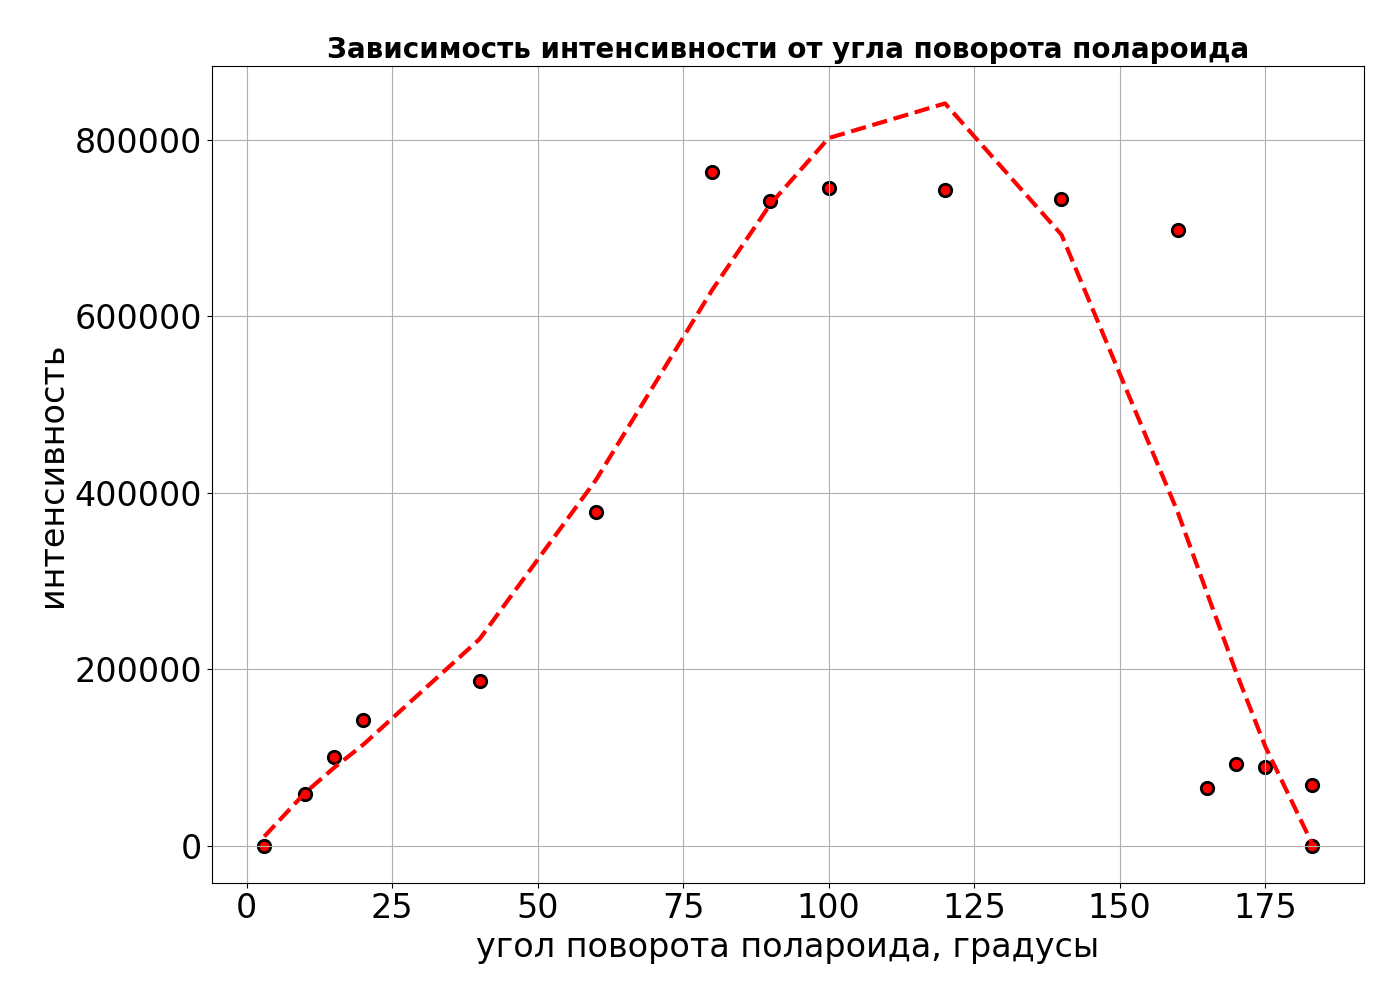
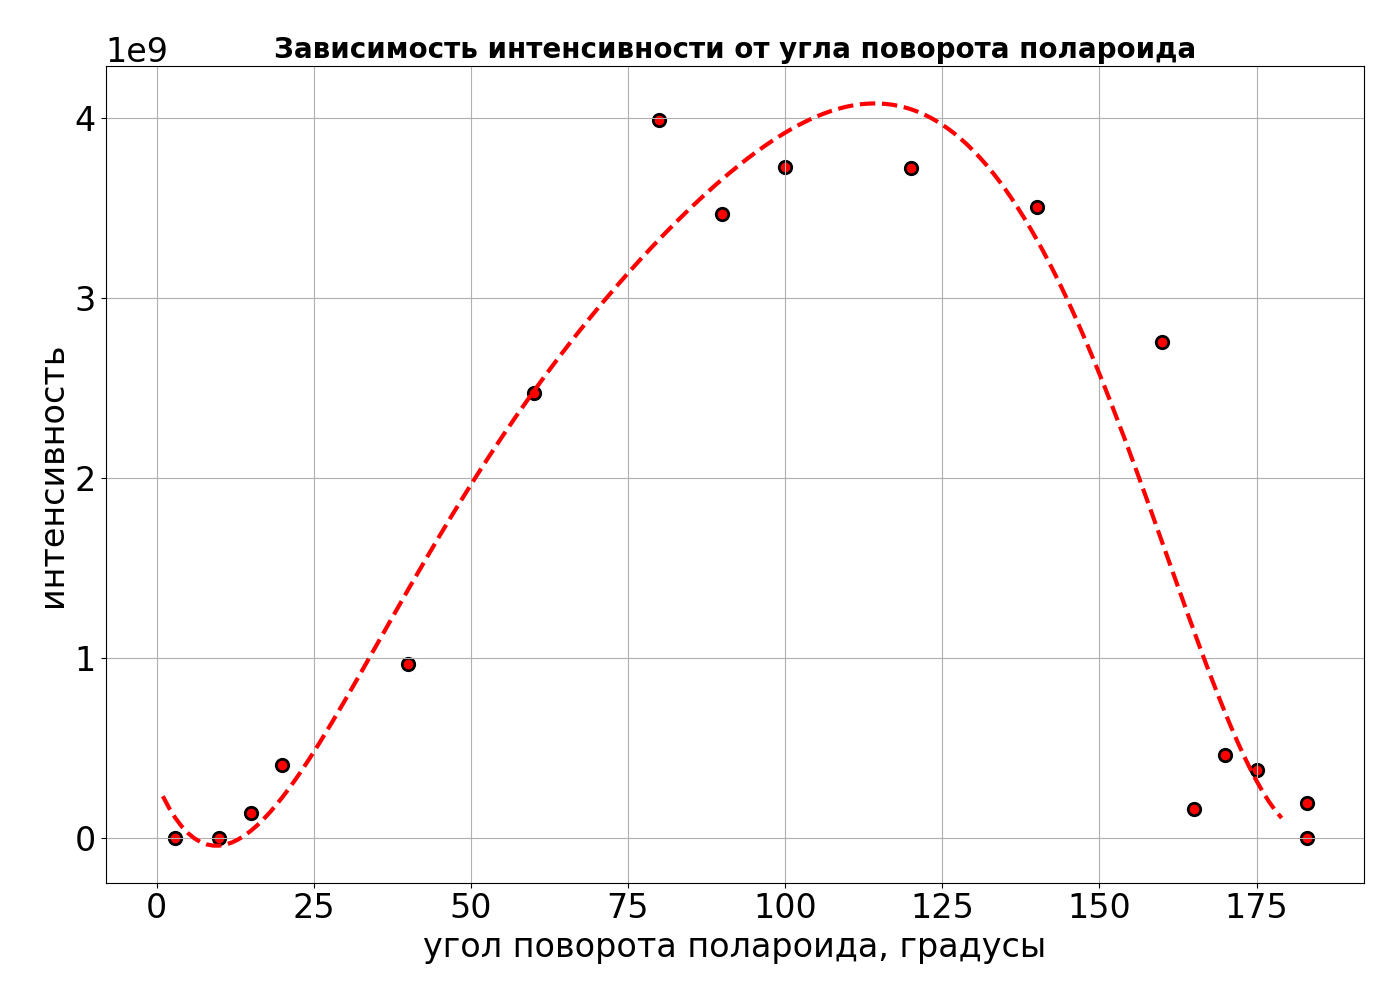
sun additions

diff --git a/main_2.py b/main_2.py
@@ -1,0 +1,66 @@
+import matplotlib
+from matplotlib import pyplot
+import numpy
+
+x = [5, 10, 15, 20]
+y1 = [3, 9, 13, 16]
+
+y2 = [5, 7, 13, 15]
+
+y3 = [5, 8, 10, 14]
+
+y4 = [4, 9, 14, 14]
+
+fig = pyplot.gcf()
+matplotlib.rcParams.update({'font.size': 24})
+fig.set_size_inches(14, 10)
+
+pyplot.scatter(x, y1, color='red', linewidths=2, edgecolors='black', s=80)
+z1 = numpy.polyfit(x, y1, 1)
+p1 = numpy.poly1d(z1)
+pyplot.plot(x, p1(x), "r--", color='red', linewidth=3)
+
+pyplot.scatter(x, y2, color='blue', linewidths=2, edgecolors='black', s=80)
+z2 = numpy.polyfit(x, y2, 1)
+p2 = numpy.poly1d(z2)
+pyplot.plot(x, p2(x), "r--", color='blue', linewidth=3)
+
+pyplot.scatter(x, y3, color='green', linewidths=2, edgecolors='black', s=80)
+z3 = numpy.polyfit(x, y3, 1)
+p3 = numpy.poly1d(z3)
+pyplot.plot(x, p3(x), "r--", color='green', linewidth=3)
+
+pyplot.scatter(x, y4, color='grey', linewidths=2, edgecolors='black', s=80)
+z4 = numpy.polyfit(x, y4, 1)
+p4 = numpy.poly1d(z4)
+pyplot.plot(x, p4(x), "r--", color='grey', linewidth=3)
+
+pyplot.title('Зависимость угла поворота плоскости поляризации от концентрации сахара', fontsize=20, fontweight='bold')
+
+pyplot.annotate("T = 22⁰С: y = " + str(p1), xy=(7, 15), color='red')
+pyplot.annotate("T = 35⁰С: y = " + str(p2), xy=(7, 13), color='blue')
+pyplot.annotate("T = 50⁰С: y = " + str(p3), xy=(15, 6), color='green')
+pyplot.annotate("T = 75⁰С: y = " + str(p4), xy=(15, 4), color='grey')
+
+pyplot.xlabel('концентрация, г/100мл')
+pyplot.ylabel('угол, градусы')
+pyplot.grid(True)
+pyplot.tight_layout()
+pyplot.savefig('temp')
+pyplot.clf()
+
+
+xx = [22, 35, 50, 70]
+yy = [53, 44, 35, 43]
+
+pyplot.scatter(xx, yy, color='grey', linewidths=2, edgecolors='black', s=80)
+pyplot.plot(xx, yy, "r--", color='grey', linewidth=3)
+
+pyplot.axis([0, 80, 0, 60])
+pyplot.title('Зависимость удельного вращения от температуры', fontsize=20, fontweight='bold')
+pyplot.xlabel('температура, ⁰С')
+pyplot.ylabel('αD')
+pyplot.grid(True)
+pyplot.tight_layout()
+pyplot.savefig('a_ot_t')
+pyplot.clf()

diff --git a/visualizer.py b/visualizer.py
@@ -3,20 +3,23 @@ from matplotlib import pyplot
 import numpy
 
 
-def visualize(x, y, name):
+def visualize(xx, y, name):
 #    print("Plotting", *y, sep='\n')
     fig = pyplot.gcf()
     matplotlib.rcParams.update({'font.size': 24})
     fig.set_size_inches(14, 10)
+    x = [(n / 57.3 - 1.57) for n in xx]
     pyplot.scatter(x, y, color = 'red', linewidths = 2, edgecolors = 'black', s = 80) #color = 'red'
-#    pyplot.plot(x, y)
-    z = numpy.polyfit(x, y, 5)
+    z = numpy.polyfit(x, y, 6)
     p = numpy.poly1d(z)
-    pyplot.plot(x, p(x),"r--", color = 'red', linewidth = 3)
+    xp = [(n / 57.3 - 1.57) for n in list(range(1, 180))]
+    xpp = [(n / 57.3 - 1.57) for n in list(range(1, 180))]
+    pyplot.plot(xp, p(xp),"r--", color = 'red', linewidth = 3)
+    pyplot.plot(xp, max(y) * numpy.cos(xpp) * numpy.cos(xpp),"r--", color = 'grey', linewidth = 3)
     pyplot.title('Зависимость интенсивности от угла поворота полароида', fontsize=20, fontweight='bold')
-    pyplot.xlabel('угол поворота полароида, градусы')
+    pyplot.xlabel('нормированный угол поворота полароида')
     pyplot.ylabel('интенсивность')
     pyplot.grid(True)
     pyplot.tight_layout()
-    pyplot.savefig(name)
+    pyplot.savefig(name + '_norm')
     pyplot.clf()

diff --git a/processor.py b/processor.py
@@ -8,8 +8,8 @@ def red_level(image_name):
     for x_idx in range(1700, 2100):
         for y_idx in range(1230, 1450):
             R, _, _ = image.getpixel((x_idx, y_idx))
-            if R > 50:
+            if R > 100:
                 reds.append(R)
     if len(reds) == 0:
         return 0
-    return sum(reds) / len(reds)
+    return sum(reds) # / len(reds)
